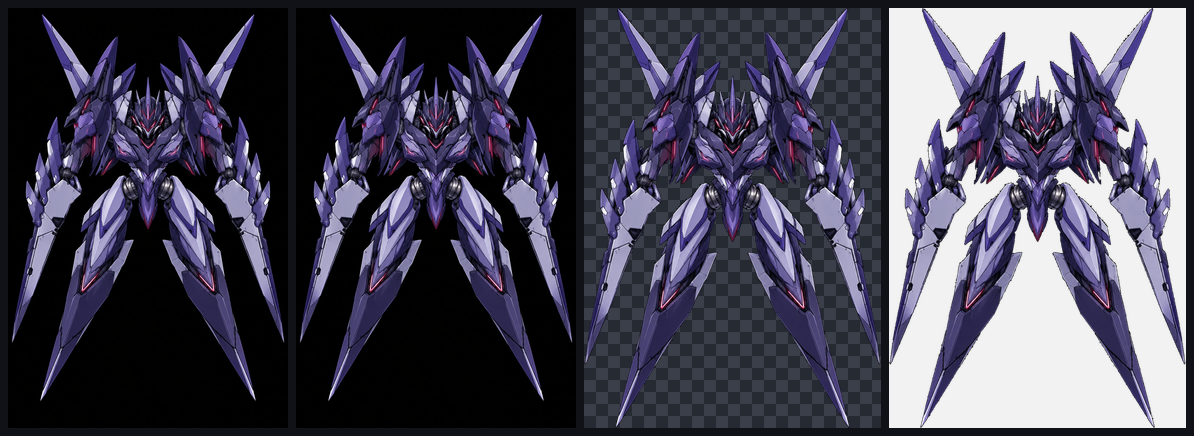
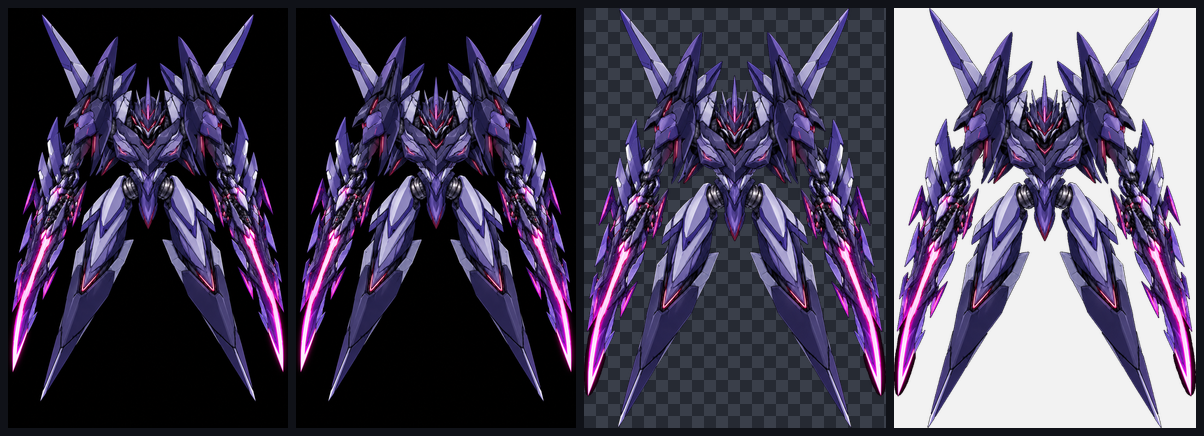
Tess v2 (Step 2): process new-top-down-main.png (checker + bgPale for the blade halo), arm rig parts split at the elbow, anchors; tessRig.js arm-swing rig; tessArt.js on the shared rig path

diff --git a/src/pilots/tessRig.js b/src/pilots/tessRig.js
@@ -1,0 +1,84 @@
+// TESS v2 rig (ASSET_NOTES.md "Rebuild v2"): the two arms, each split at the
+// elbow by process-art (`armRoot`: upper arm and elbow armour, pivot at the
+// shoulder; `armTip`: forearm, clawed hand and blade). Every volley is a
+// visible slash by one arm, alternating: the next arm winds back while the
+// other one throws, snaps forward and inward across the body on release (the
+// crescents leave its blade), follows through, and settles. The elbow bends
+// more than the shoulder, so the blade whips. Clones share the pose.
+
+const REST = { sh: 0, el: 0 };
+const WOUND = { sh: -0.16, el: -0.36 };   // wound back and out
+const MID = { sh: 0.04, el: 0.14 };       // the release frame: mid-snap
+const PEAK = { sh: 0.2, el: 0.55 };       // follow-through, inward across the body
+
+export const RIG = {
+  // Upper arms under the body (the shoulder armour covers them), blades over it.
+  order: ['armRootL', 'armRootR', 'body', 'armTipL', 'armTipR'],
+  attach: {
+    bladeTipL: 'armTipL', bladeTipR: 'armTipR',
+    bladeMidL: 'armTipL', bladeMidR: 'armTipR',
+    bladeBaseL: 'armTipL', bladeBaseR: 'armTipR',
+    wristL: 'armTipL', wristR: 'armTipR',
+    elbowL: 'armRootL', elbowR: 'armRootR',
+  },
+};
+
+const arm = () => ({ r: 99, sh: 0, el: 0, rel: 0 });
+
+/** Rig state on p.ps.tr (created on first use). */
+export function rigState(p) {
+  return p.ps.tr || (p.ps.tr = { L: arm(), R: arm(), next: -1, last: -99 });
+}
+
+const lerp = (a, b, u) => ({ sh: a.sh + (b.sh - a.sh) * u, el: a.el + (b.el - a.el) * u });
+const ease = (u) => u * u * (3 - 2 * u);
+
+/** One step: each arm eases toward its slash curve (or rest / wound when idle). */
+export function step(p) {
+  const tr = rigState(p), firing = p.t - tr.last < 10;
+  for (const s of ['L', 'R']) {
+    const a = tr[s], o = tr[s === 'L' ? 'R' : 'L'];
+    a.r++;
+    a.rel *= 0.8;
+    // The next arm winds back while the other one is mid-throw.
+    const base = firing && o.r < 7 && a.r >= 4 ? WOUND : REST;
+    let t;
+    if (a.r < 2) t = lerp(MID, PEAK, a.r / 2);
+    else if (a.r < 4) t = PEAK;
+    else if (a.r < 9) t = lerp(PEAK, base, ease((a.r - 4) / 5));
+    else t = base;
+    const breathe = Math.sin(p.t * 0.05 + (s === 'L' ? 0 : 1.3)) * 0.015;
+    a.sh += (t.sh + breathe - a.sh) * 0.55;
+    a.el += (t.el + breathe - a.el) * 0.55;
+  }
+}
+
+/** A throw by arm `side` (-1 left, +1 right): it snaps to the release pose. Returns the side. */
+export function release(p, side) {
+  const tr = rigState(p), a = tr[side < 0 ? 'L' : 'R'];
+  a.r = 0; a.sh = MID.sh; a.el = MID.el; a.rel = 1;
+  tr.last = p.t;
+  tr.next = -side;
+  return side;
+}
+
+/** How hard arm `side` is swinging right now (0..1, for the blade flare). */
+export const swing = (p, side) => rigState(p)[side < 0 ? 'L' : 'R'].rel;
+
+const rotv = (x, y, a) => [x * Math.cos(a) - y * Math.sin(a), x * Math.sin(a) + y * Math.cos(a)];
+
+/**
+ * Pose of a layer. Inward is clockwise for the left arm (its blade points up
+ * and left) and anticlockwise for the right. The blade (tip) turns about the
+ * elbow on top of the shoulder turn: as a rotation about the shared pivot by
+ * the sum, plus the offset that keeps the elbow where the upper arm put it.
+ */
+export function pose(p, name, A) {
+  const L = name.endsWith('L'), a = rigState(p)[L ? 'L' : 'R'], sg = L ? 1 : -1;
+  const sh = sg * a.sh, el = sg * a.el;
+  if (name.startsWith('armRoot')) return { rot: sh };
+  const P = A[L ? 'shoulderL' : 'shoulderR'], E = A[L ? 'elbowL' : 'elbowR'];
+  const dx = E[0] - P[0], dy = E[1] - P[1];
+  const [ax, ay] = rotv(dx, dy, sh), [bx, by] = rotv(dx, dy, sh + el);
+  return { rot: sh + el, ox: ax - bx, oy: ay - by };
+}

diff --git a/src/pilots/tessArt.js b/src/pilots/tessArt.js
@@ -1,10 +1,14 @@
 import { createMechaArt } from './art/mechaArt.js';
 import { createMechaFx } from './art/mechaFx.js';
+import { RIG, pose } from './tessRig.js';
 
-// TESS ART TEST: the hand-made Wireghost mecha (src/pilot concept art/Tess
-// Kuro, ASSET_NOTES.md), built on the shared mecha-art module. The sprite
-// flies feet-first; the leg blades (feet) never fire. Wire-blade crescents
-// leave the two forearm blades.
+// TESS v2 (ASSET_NOTES.md "Rebuild v2"): the Wireghost as a blade component
+// mecha, built on the shared mecha-art module's rig path. The arms (upper arm
+// + forearm and blade, split at the elbow) and their slash motion come from
+// tessRig.js; the FX drawn around them come from tessFx.js (RIG_FX).
+// Everything is visual except `anchor()`, which also places Tess's real shot
+// origins (points along the swinging blade). The leg blades (top of the
+// sprite: she flies feet-first) never fire.
 
 // Owner's choice for every effect: violet outside, a scarlet band, orange inside (white-hot centre).
 export const PAL = {
@@ -15,29 +19,43 @@ export const PAL = {
   edge: [0.55, 0.12, 1.1],
 };
 
+/** FX hooks around the rig's layers; filled in by tessFx.js (avoids an import cycle). */
+export const RIG_FX = { before: null, overlay: null };
+
 export const tessArt = createMechaArt({
   id: 'tess',
   pal: PAL,
   // Built-in copy of tess.anchors.json (gameplay anchors never depend on the file loading).
   defaults: {
-    image: { w: 266, h: 372, artH: 360, pad: 6 },
+    image: { w: 436, h: 372, artH: 360, pad: 6 },
     anchors: {
-      hitbox: [133.1, 224.5], head: [133.1, 254.8],
-      bladeL: [39.1, 160.6], bladeR: [227.1, 160.6],
-      ventL: [75.7, 292.7], ventR: [190.4, 292.7],
-      packL: [125, 288.9], packR: [141.2, 288.9],
+      hitbox: [217.9, 241.9], head: [217.9, 273.5], waist: [217.9, 181.9],
+      bladeTipL: [13.9, 19.3], bladeTipR: [421.9, 19.3],
+      bladeMidL: [59.7, 90.3], bladeMidR: [376.1, 90.3],
+      bladeBaseL: [107.1, 174], bladeBaseR: [328.7, 174],
+      wristL: [126, 204], wristR: [309.8, 204],
+      elbowL: [127.6, 241.9], elbowR: [308.2, 241.9],
+      shoulderL: [151.3, 254.5], shoulderR: [284.5, 254.5],
+      ventL: [189.2, 312.9], ventR: [246.6, 312.9],
+      packL: [208.7, 319.3], packR: [227.1, 319.3],
     },
   },
   flames: [
-    // Wide plumes from the rear of the shoulder armour, smaller ones beside the head's rear spike.
-    { name: 'ventL', len: 26, wid: 17, hot: 0.3, i: 4 },
-    { name: 'ventR', len: 26, wid: 17, hot: 0.3, i: 5 },
-    { name: 'packL', len: 15, wid: 7, hot: 0.45, i: 6 },
-    { name: 'packR', len: 15, wid: 7, hot: 0.45, i: 7 },
+    // Wide plumes from the shoulder-spike roots, smaller ones beside the head's rear spike.
+    { name: 'ventL', len: 18, wid: 8, hot: 0.2, i: 4 },
+    { name: 'ventR', len: 18, wid: 8, hot: 0.2, i: 5 },
+    { name: 'packL', len: 10, wid: 4, hot: 0.25, i: 6 },
+    { name: 'packR', len: 10, wid: 4, hot: 0.25, i: 7 },
   ],
-  nozzles: ['packL', 'packR'],
-  exhaust: ['ventL', 'ventR', 'packL', 'packR'],
-  wingAnchors: ['blade', 'vent'],
+  nozzles: [],
+  exhaust: ['ventL', 'ventR'],
+  rig: {
+    order: RIG.order,
+    attach: RIG.attach,
+    pose: (p, name) => pose(p, name, tessArt.anchorData().anchors),
+    before: (p, b, api, name) => RIG_FX.before && RIG_FX.before(p, b, api, name),
+    overlay: (p, b, api) => RIG_FX.overlay && RIG_FX.overlay(p, b, api),
+  },
   size: 90,
 });
 

diff --git a/src/pilots/tess.js b/src/pilots/tess.js
@@ -94,7 +94,7 @@ function volley(p, w, x, y, dmgMul, self) {
     w.cancelCircle(sx, sy, r * 0.8);
     const flip = (p.ps.flip = -p.ps.flip);
     p.ps.slashes.push({ x: sx, y: sy, r, t: 0, flip });
-    const name = flip < 0 ? 'bladeL' : 'bladeR', [mx, my] = tessArt.anchor(name);
+    const name = flip < 0 ? 'bladeMidL' : 'bladeMidR', [mx, my] = tessArt.anchor(name);
     const i = w.shot(x + mx, y + my, aimAcross(mx, my, 0, -16, UP), 10, p.ps.fBlade, 1.4, 7);
     if (i >= 0) { S.behave(i, 1.4 * dmgMul, 22, 1); S.motion(i, -0.25, 0, 3.5, 10); S.aux[i] = 2; }
     if (self) p.ps[flip < 0 ? 'kickL' : 'kickR'] = 1;
@@ -106,7 +106,7 @@ function volley(p, w, x, y, dmgMul, self) {
   for (let k = 0; k < n; k++) {
     const a0 = UP + (k / Math.max(1, n - 1) - 0.5) * (n > 1 ? 0.45 : 0);
     const side = k * 2 < n - 1 ? -1 : k * 2 > n - 1 ? 1 : p.ps.mid;
-    const name = side < 0 ? 'bladeL' : 'bladeR', [mx, my] = tessArt.anchor(name);
+    const name = side < 0 ? 'bladeMidL' : 'bladeMidR', [mx, my] = tessArt.anchor(name);
     const i = w.shot(x + mx, y + my, aimAcross(mx, my, 0, -16, a0), 9.5, p.ps.fBlade, 1.5, 7);
     if (i >= 0) { S.behave(i, 1.5 * dmgMul, 22, 1); S.motion(i, -0.25, 0, 3.5, 10); S.aux[i] = 1; }
     used.add(name);
